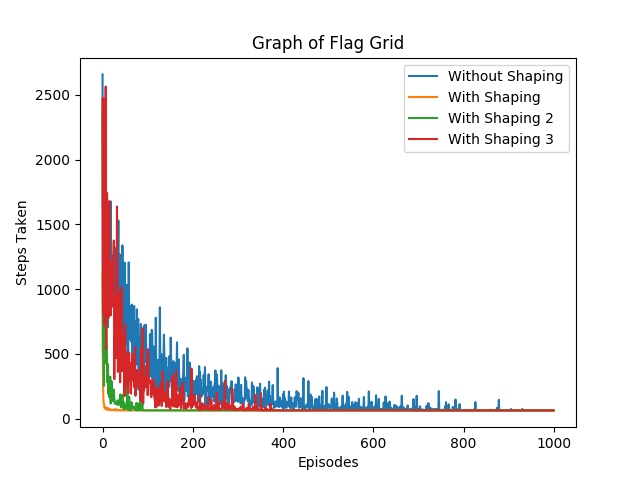
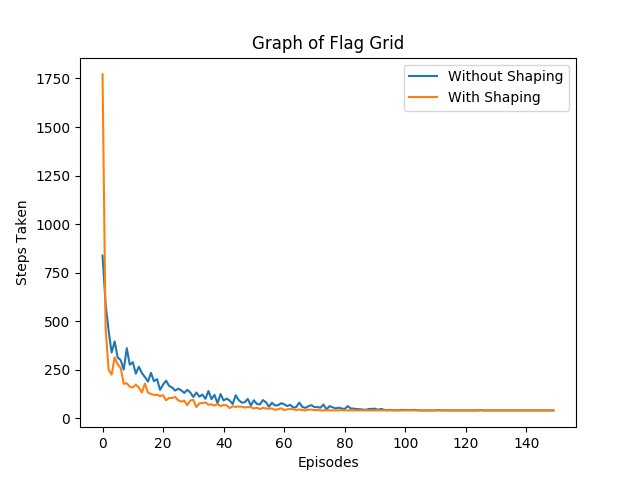
walls added

diff --git a/main.py b/main.py
@@ -16,12 +16,24 @@ n=10
 p=0
 eps = 1
 num_actions = 4
-num_episode = 1000
+num_episode = 150
 lr = 0.5
 # flag_pos = [[1,4],[2,0],[3,4],[4,0]]
 # flag_pos = [[0,4],[2,2]]
-# flag_pos = [[9,9]]
-flag_pos = [[0,9],[8,0],[5,4],[3,9],[6,0],[9,9]]
+flag_pos = [[6,1]]
+# flag_pos = [[0,9],[8,0],[5,4],[3,9],[6,0],[9,9]]
+
+allowed = [[True]*n for i in range(0,n)]
+# allowed[0][1] = False
+allowed[1][0:8] = [False]*8
+allowed[3][1:10] = [False]*9
+allowed[5][0:5] = [False]*5
+allowed[5][6:10] = [False]*4
+allowed[7][2:8] = [False]*6
+allowed[6][2] = False
+
+
+
 
 num_states = n*n*len(flag_pos)
 
@@ -31,7 +43,7 @@ action_map2 = {0:"\u2191",1:"\u2193",2:"\u2192",3:"\u2190"}
 
 #############################################################################################
 
-grid = gridSim(n,p,flag_pos,"Optimal Action Withounum_actionst Shaping")
+grid = gridSim(n,p,flag_pos,allowed,"Optimal Action Withounum_actionst Shaping")
 
 pl = player(grid)
 Q,stepsPerEpisode=q_learning(pl,lr,eps,num_episode,num_states,num_actions,0)
@@ -42,7 +54,7 @@ plt.plot(range(num_episode),stepsPerEpisode,label='Without Shaping')
 
 #############################################################################################
 
-grid.__init__(n,p,flag_pos,"Optimal Action With Shaping")
+grid.__init__(n,p,flag_pos,allowed,"Optimal Action With Shaping")
 pl.__init__(grid)
 
 Q_shaping,stepsPerEpisode_shaping=q_learning(pl,lr,eps,num_episode,num_states,num_actions,1)
@@ -52,18 +64,18 @@ gui=show_Q_path(n,Q_shaping,action_map2,pl,"path with shaping")
 plt.plot(range(num_episode),stepsPerEpisode_shaping,label='With Shaping')
 #############################################################################################
 
-grid.__init__(n,p,flag_pos,"Optimal Action With Shaping 2")
-pl.__init__(grid)
+# grid.__init__(n,p,flag_pos,allowed,"Optimal Action With Shaping 2")
+# pl.__init__(grid)
 
-Q_shaping,stepsPerEpisode_shaping_2=q_learning(pl,lr,eps,num_episode,num_states,num_actions,2)
-print(estimate_V(Q_shaping,num_states,num_actions))
-gui=show_Q_path(n,Q_shaping,action_map2,pl,"path with shaping 2")
+# Q_shaping,stepsPerEpisode_shaping_2=q_learning(pl,lr,eps,num_episode,num_states,num_actions,2)
+# print(estimate_V(Q_shaping,num_states,num_actions))
+# gui=show_Q_path(n,Q_shaping,action_map2,pl,"path with shaping 2")
 
-plt.plot(range(num_episode),stepsPerEpisode_shaping_2,label='With Shaping 2')
+# plt.plot(range(num_episode),stepsPerEpisode_shaping_2,label='With Shaping 2')
 
-##############################################################################################
+# ##############################################################################################
 
-grid.__init__(n,p,flag_pos,"Optimal Action With Shaping 3")
+grid.__init__(n,p,flag_pos,allowed,"Optimal Action With Shaping 3")
 pl.__init__(grid)
 
 Q_shaping,stepsPerEpisode_shaping_2=q_learning(pl,lr,eps,num_episode,num_states,num_actions,3)
@@ -87,5 +99,5 @@ plt.title("Graph of Flag Grid")
 plt.xlabel("Episodes")
 plt.ylabel("Steps Taken")
 plt.legend()
-plt.savefig('flag_grid_0123.png')
+plt.savefig('wall_grid_013.png')
 plt.show()

diff --git a/gridSim.py b/gridSim.py
@@ -3,7 +3,7 @@ from gui import *
 class gridSim:
 	"""docstring for gridSim"""
 
-	def __init__(self, n, p, flag_pos, name="hi"):
+	def __init__(self, n, p, flag_pos, allowed, name="hi"):
 		# super(gridSim, self).__init__()
 		# n x n grid
 		# with probability p move in random direction
@@ -11,7 +11,8 @@ class gridSim:
 		self.p = p
 		self.init_pos = [0,0]
 		self.grid = [[0]*n for i in range(0,n)]
-		self.allowed = [[True]*n for i in range(0,n)]
+		# self.allowed = [[True]*n for i in range(0,n)]
+		self.allowed = allowed
 		self.gui = App(n,n,name)
 		self.flag_pos = flag_pos
 		self.collected = 0
